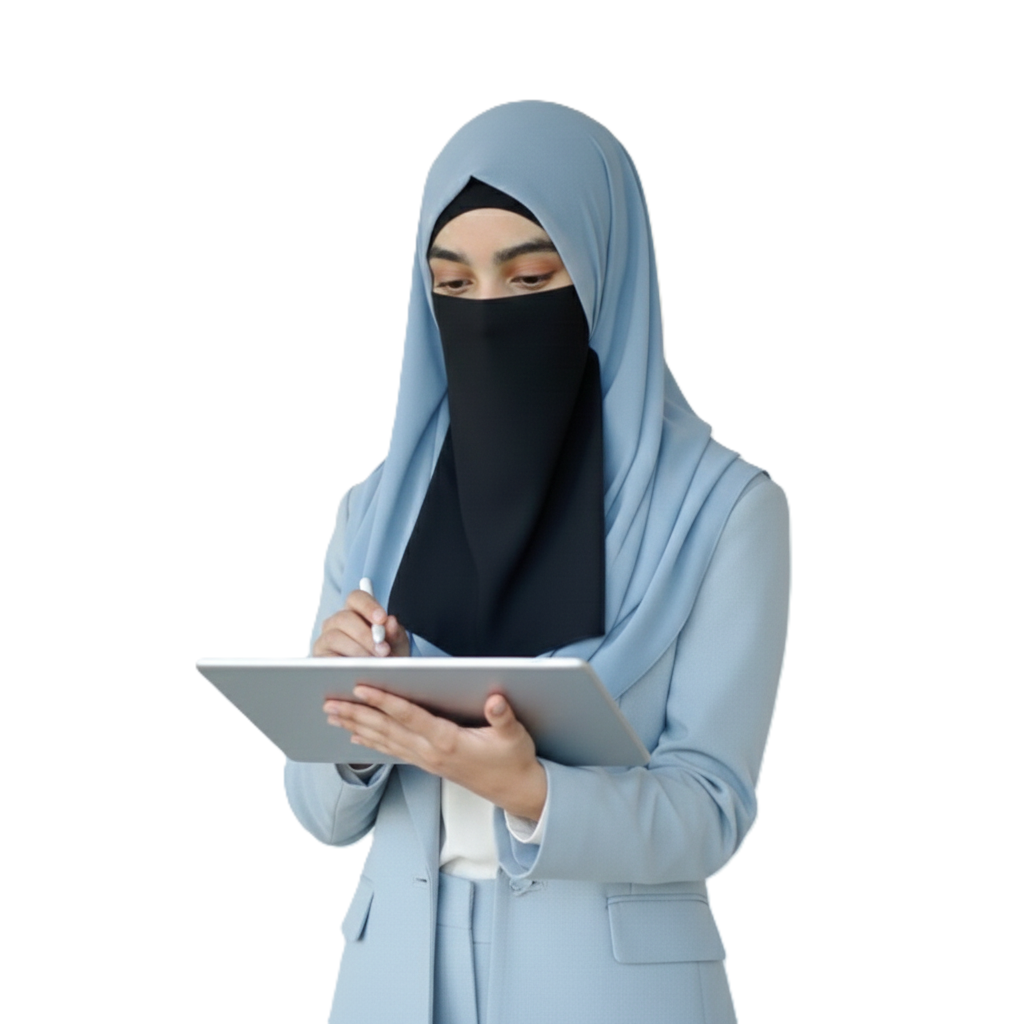
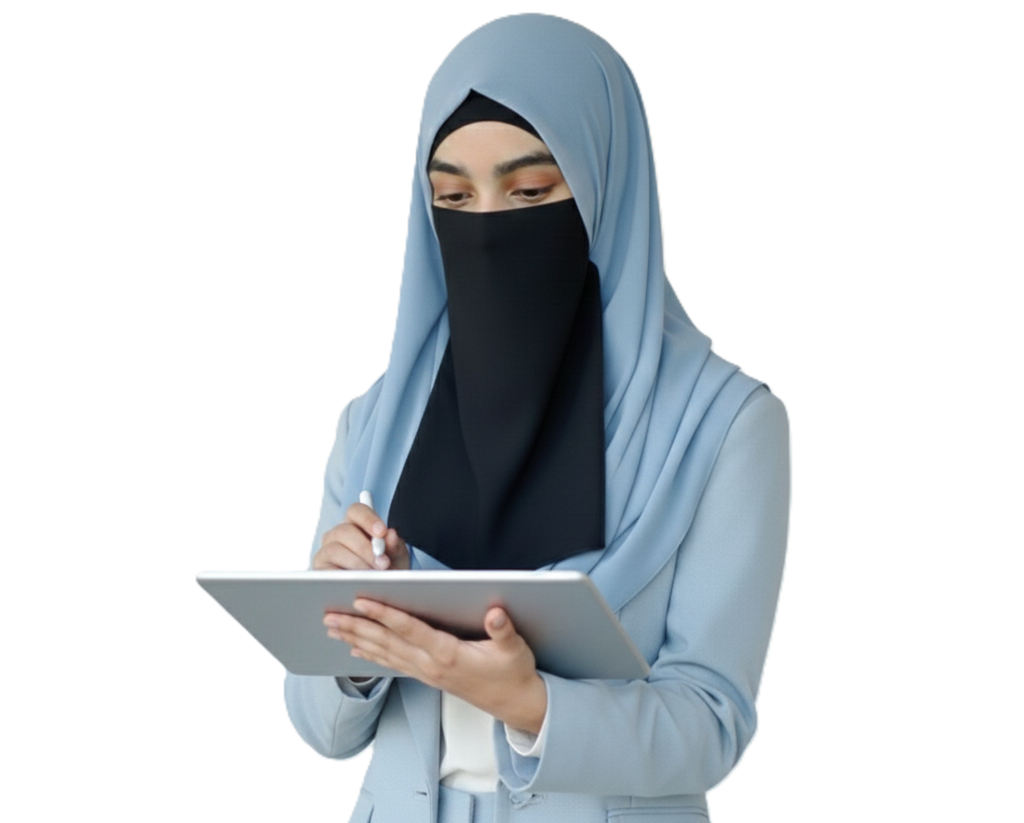
updated the readme file

diff --git a/README.md b/README.md
@@ -28,16 +28,25 @@ const aliza = {
 };
 ```
 
-<img align="right" alt="Aliza Ali" width="320" src="./assets/laptop.png" style="border-radius: 10px;"/>
-
-I'm a passionate **Full-Stack Developer** who loves building things that live on the internet. I specialize in creating engaging websites and applications with modern frontend frameworks and robust backend solutions.
-
-- :rocket: Currently working on **exciting web & mobile projects**
-- :seedling: Learning **Python, Docker & AWS** to expand my skillset
-- :handshake: Open to collaborating on **open source projects**
-- :zap: Fun fact: I debug code while drinking coffee
-
-<br clear="right"/>
+<table>
+  <tr>
+    <td valign="middle">
+      <p>
+        I'm a passionate <strong>Full-Stack Developer</strong> who loves building things that live on the internet.
+        I specialize in creating engaging websites and applications with modern frontend frameworks and robust backend solutions.
+      </p>
+      <p>
+        🚀 Currently working on <strong>exciting web & mobile projects</strong><br/>
+        🌱 Learning <strong>Python, Docker & AWS</strong> to expand my skillset<br/>
+        🤝 Open to collaborating on <strong>open source projects</strong><br/>
+        ⚡ Fun fact: I debug code while drinking coffee
+      </p>
+    </td>
+    <td width="300" align="center" valign="middle">
+      <img alt="Aliza Ali" width="280" src="./assets/profile.png" style="border-radius: 10px;"/>
+    </td>
+  </tr>
+</table>
 
 ---
 
@@ -121,7 +130,6 @@ I'm a passionate **Full-Stack Developer** who loves building things that live on
   <img src="https://raw.githubusercontent.com/stackmasteraliza/stackmasteraliza/output/github-snake-dark.svg" alt="Snake animation" />
 </div>
 
-> **Note:** To enable the snake animation, add a GitHub Action workflow. See instructions below.
 
 ---
 
